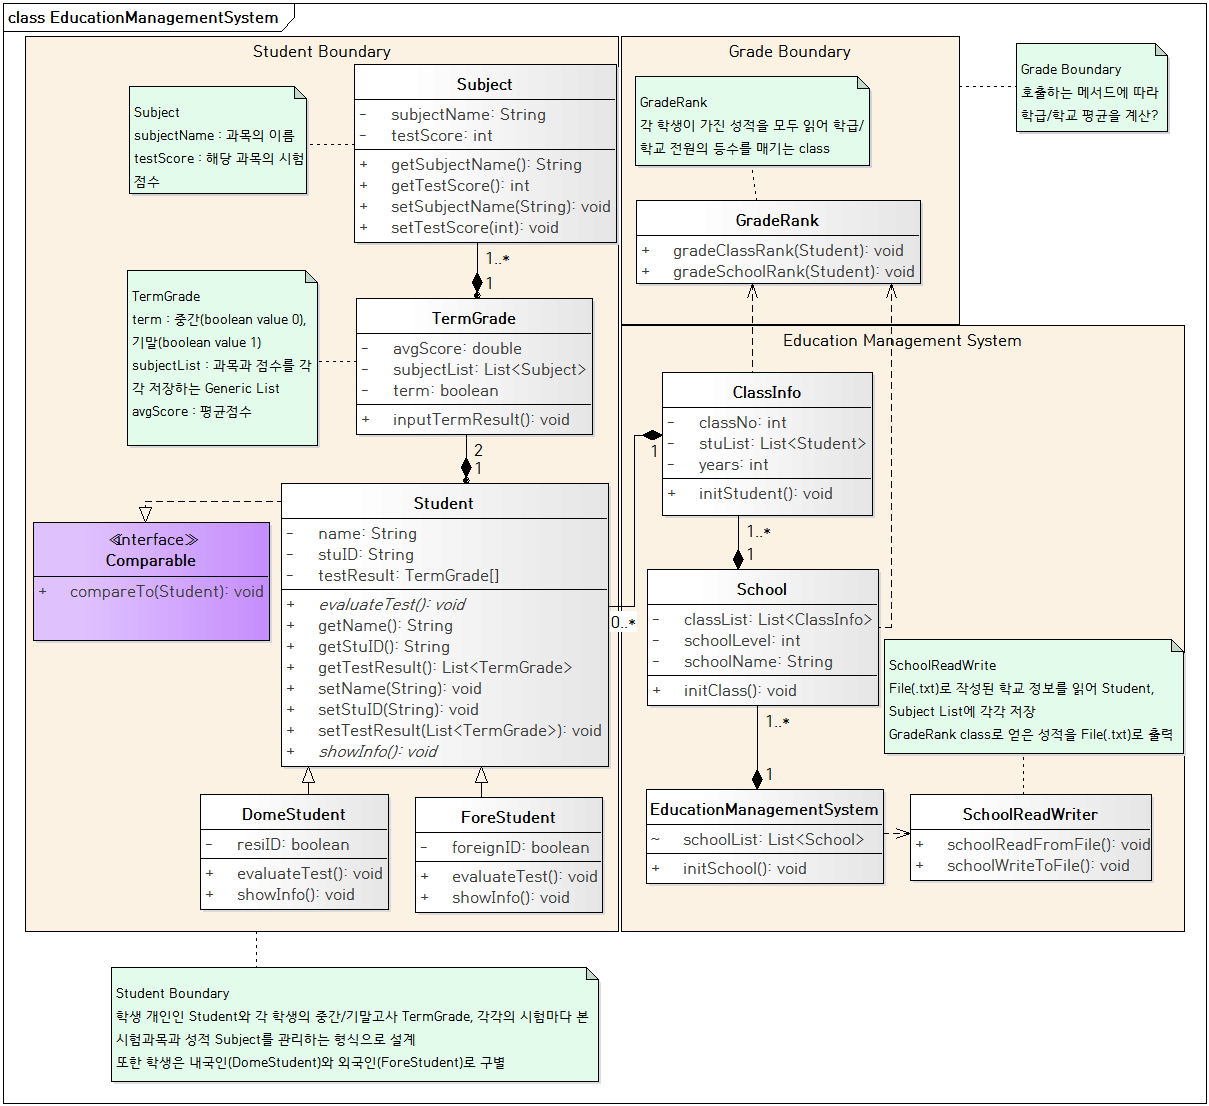
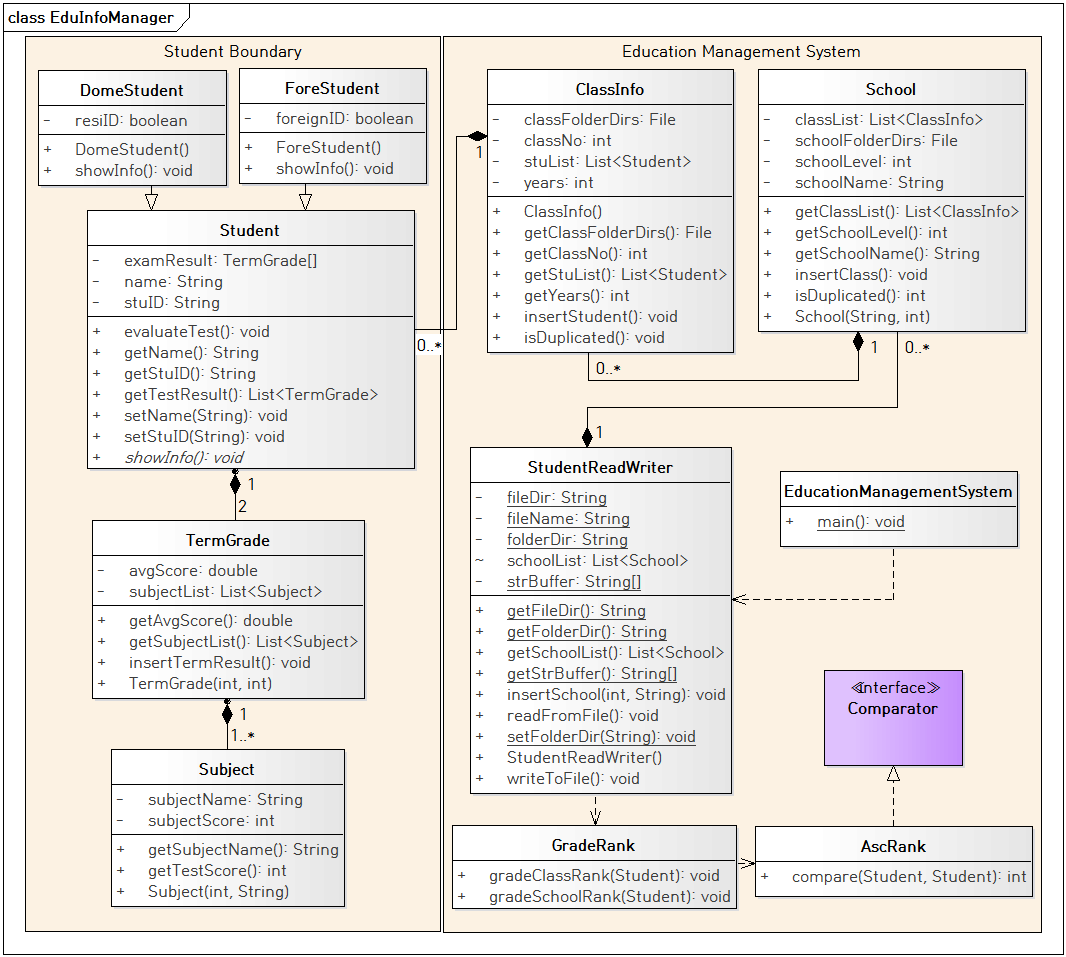
Class Diagram Remake
Sorting method merge and Refactoring(2nd)

diff --git a/DongHyeok/src/com/paran/exercise1/EduInfoManager.java b/DongHyeok/src/com/paran/exercise1/EduInfoManager.java
@@ -7,23 +7,25 @@ import java.io.FileReader;
 import java.io.FileWriter;
 import java.io.IOException;
 import java.util.ArrayList;
+import java.util.Collections;
+import java.util.Comparator;
 import java.util.List;
 
 public class EduInfoManager {
 	public static void main(String[] args) throws IOException {
-		SchoolReadWriter eduInfo = new SchoolReadWriter();
+		StudentReadWriter eduInfo = new StudentReadWriter();
 		eduInfo.writeToFile();
 	}
 }
 
-class SchoolReadWriter {
+class StudentReadWriter {
 	List<School> schoolList = new ArrayList<School>();
 	private static String fileDir = "D:\\EMS\\";
 	private static String fileName = "SchoolCollection.txt";
 	private static String[] strBuffer;
 	private static String folderDir;
 	
-	public SchoolReadWriter() throws IOException {
+	public StudentReadWriter() throws IOException {
 		readFromFile();
 	}
 
@@ -36,16 +38,16 @@ class SchoolReadWriter {
 			strBuffer = fileLine.split("\t");
 			switch (Integer.parseInt(strBuffer[0])) {
 				case 1: 
-					initSchool(1, strBuffer[1]);
+					insertSchool(1, strBuffer[1]);
 					break;
 				case 2:
-					initSchool(2, strBuffer[1]);
+					insertSchool(2, strBuffer[1]);
 					break;
 				case 3:
-					initSchool(3, strBuffer[1]);
+					insertSchool(3, strBuffer[1]);
 					break;
 				case 4:
-					initSchool(4, strBuffer[1]);
+					insertSchool(4, strBuffer[1]);
 					break;
 				default:
 					break;
@@ -60,6 +62,7 @@ class SchoolReadWriter {
 		String outputString;
 		for (int i = 0 ; i < schoolList.size(); i++) {
 			for (int j = 0 ; j < schoolList.get(i).getClassList().size(); j++) {
+				GradeRank.gradeClassRank(schoolList.get(i).getClassList().get(j));
 				outputFile = new BufferedWriter
 						(new FileWriter(schoolList.get(i).getClassList().get(j).getClassFolderDirs().getPath() + "\\ClassInfo.txt"));
 				outputString = "";
@@ -73,7 +76,7 @@ class SchoolReadWriter {
 		
 	}
 	
-	public void initSchool(int schoolLevel, String schoolName) {
+	public void insertSchool(int schoolLevel, String schoolName) {
 		boolean schoolExist = false;
 		int duplicatedPosition = 0;
 		
@@ -95,16 +98,12 @@ class SchoolReadWriter {
 			schoolList.add(new School(schoolLevel, schoolName));
 		}
 		else {
-			schoolList.get(duplicatedPosition).duplicatedSchool();
+			schoolList.get(duplicatedPosition).isDuplicated();
 		}
 	}
 	
 	public static String getFileDir() {
 		return fileDir;
-	}
-	
-	public static String getFileName() {
-		return fileName;
 	}
 
 	public static String[] getStrBuffer() {
@@ -116,7 +115,7 @@ class SchoolReadWriter {
 	}
 	
 	public static void setFolderDir(String folderDir) {
-		SchoolReadWriter.folderDir = folderDir;
+		StudentReadWriter.folderDir = folderDir;
 	}
 
 	public List<School> getSchoolList() {
@@ -135,34 +134,34 @@ class School {
 		this.schoolLevel = schoolLevel;
 		this.schoolName = schoolName;
 		
-		SchoolReadWriter.setFolderDir(SchoolReadWriter.getFileDir());
+		StudentReadWriter.setFolderDir(StudentReadWriter.getFileDir());
 		switch (schoolLevel) {
 			case 1:
-				SchoolReadWriter.setFolderDir(SchoolReadWriter.getFolderDir() + "Elementary");
+				StudentReadWriter.setFolderDir(StudentReadWriter.getFolderDir() + "Elementary");
 				break;
 			case 2:
-				SchoolReadWriter.setFolderDir(SchoolReadWriter.getFolderDir() + "Middle");
+				StudentReadWriter.setFolderDir(StudentReadWriter.getFolderDir() + "Middle");
 				break;
 			case 3:
-				SchoolReadWriter.setFolderDir(SchoolReadWriter.getFolderDir() + "High");
+				StudentReadWriter.setFolderDir(StudentReadWriter.getFolderDir() + "High");
 				break;
 			case 4:
-				SchoolReadWriter.setFolderDir(SchoolReadWriter.getFolderDir() + "University");
+				StudentReadWriter.setFolderDir(StudentReadWriter.getFolderDir() + "University");
 				break;
 			default:
 				break;
 		}
-		SchoolReadWriter.setFolderDir(SchoolReadWriter.getFolderDir() + "\\" + schoolName);
-		schoolFolderDirs = new File(SchoolReadWriter.getFolderDir());
+		StudentReadWriter.setFolderDir(StudentReadWriter.getFolderDir() + "\\" + schoolName);
+		schoolFolderDirs = new File(StudentReadWriter.getFolderDir());
 		if (!schoolFolderDirs.exists()) schoolFolderDirs.mkdirs();
 		
-		initClass();
+		insertClass();
 	}
-	public void duplicatedSchool() {
-		initClass();
+	public void isDuplicated() {
+		insertClass();
 	}
 	
-	public void initClass() {
+	public void insertClass() {
 		boolean classExist = false;
 		int duplicatedPosition = 0;
 		
@@ -171,8 +170,8 @@ class School {
 			return;
 		}
 		for (int i = 0 ; i < classList.size(); i++) {
-			if (!(classList.get(i).getYears() == Integer.parseInt(SchoolReadWriter.getStrBuffer()[2]))
-					&& !(classList.get(i).getClassNo() == Integer.parseInt(SchoolReadWriter.getStrBuffer()[3]))) {
+			if (!(classList.get(i).getYears() == Integer.parseInt(StudentReadWriter.getStrBuffer()[2]))
+					&& !(classList.get(i).getClassNo() == Integer.parseInt(StudentReadWriter.getStrBuffer()[3]))) {
 				classExist = false;
 			}
 			else {
@@ -185,7 +184,7 @@ class School {
 			classList.add(new ClassInfo());
 		}
 		else {
-			classList.get(duplicatedPosition).duplicatedClass();
+			classList.get(duplicatedPosition).isDuplicated();
 		}
 	}
 
@@ -210,21 +209,21 @@ class ClassInfo {
 	private File classFolderDirs;
 	
 	public ClassInfo() {
-		this.years = Integer.parseInt(SchoolReadWriter.getStrBuffer()[2]);
-		this.classNo = Integer.parseInt(SchoolReadWriter.getStrBuffer()[3]);
+		this.years = Integer.parseInt(StudentReadWriter.getStrBuffer()[2]);
+		this.classNo = Integer.parseInt(StudentReadWriter.getStrBuffer()[3]);
 		
-		classFolderDirs = new File(SchoolReadWriter.getFolderDir() + "\\" + years + "\\" + classNo);
+		classFolderDirs = new File(StudentReadWriter.getFolderDir() + "\\" + years + "\\" + classNo);
 		if (!classFolderDirs.exists()) classFolderDirs.mkdirs();
 		
-		initStudent();
+		insertStudent();
 	}
 
-	public void duplicatedClass(){
-		initStudent();
+	public void isDuplicated(){
+		insertStudent();
 	}
 	
-	public void initStudent() {
-		if (Integer.parseInt(SchoolReadWriter.getStrBuffer()[6]) == 0) {
+	public void insertStudent() {
+		if (Integer.parseInt(StudentReadWriter.getStrBuffer()[6]) == 0) {
 			stuList.add(new DomeStudent());
 		}
 		else {
@@ -250,36 +249,25 @@ class ClassInfo {
 	
 }
 
-abstract class Student implements Comparable<Student>{
+abstract class Student{
 	private String name;
 	private String stuID;
 	private List<TermGrade> examResult = new ArrayList<TermGrade>();
 	
 	public abstract String showInfo();
-	public void evaluateTest() {
+	public void evaluateGrade() {
 		int midStart = 0;
 		int finalStart = 0; 
-		for (int i = 8 ; i < SchoolReadWriter.getStrBuffer().length ; i++) {
-			if (SchoolReadWriter.getStrBuffer()[i].equalsIgnoreCase("Mid")) {
+		for (int i = 8 ; i < StudentReadWriter.getStrBuffer().length ; i++) {
+			if (StudentReadWriter.getStrBuffer()[i].equalsIgnoreCase("Mid")) {
 				midStart = i;
 			}
-			else if (SchoolReadWriter.getStrBuffer()[i].equalsIgnoreCase("Final")) {
+			else if (StudentReadWriter.getStrBuffer()[i].equalsIgnoreCase("Final")) {
 				finalStart = i;
 			}
 		}
 		examResult.add(new TermGrade(midStart, finalStart));
-		examResult.add(new TermGrade(finalStart, SchoolReadWriter.getStrBuffer().length));
-	}
-	@Override
-	public int compareTo(Student stu) {
-		// TODO Auto-generated method stub
-		if (this.getTestResult().get(0).getAvgScore() > stu.getTestResult().get(0).getAvgScore()) {
-			return -1;
-		}
-		else if (this.getTestResult().get(0).getAvgScore() == stu.getTestResult().get(0).getAvgScore()) {
-			return 0;
-		}
-		else return 1;
+		examResult.add(new TermGrade(finalStart, StudentReadWriter.getStrBuffer().length));
 	}
 	
 	public String getName() {
@@ -298,11 +286,8 @@ abstract class Student implements Comparable<Student>{
 		this.stuID = stuID;
 	}
 	
-	public List<TermGrade> getTestResult() {
+	public List<TermGrade> getTermResult() {
 		return examResult;
-	}
-	public void setTestResult(List<TermGrade> examResult) {
-		this.examResult = examResult;
 	}
 }
 
@@ -311,11 +296,11 @@ class DomeStudent extends Student {
 	private String resiID;
 	
 	public DomeStudent() {
-		super.setName(SchoolReadWriter.getStrBuffer()[4]);
-		super.setStuID(SchoolReadWriter.getStrBuffer()[5]);
-		this.resiID = SchoolReadWriter.getStrBuffer()[7];
+		super.setName(StudentReadWriter.getStrBuffer()[4]);
+		super.setStuID(StudentReadWriter.getStrBuffer()[5]);
+		this.resiID = StudentReadWriter.getStrBuffer()[7];
 		
-		evaluateTest();
+		evaluateGrade();
 	}
 	
 	@Override
@@ -324,17 +309,17 @@ class DomeStudent extends Student {
 		String studentInfo = "Name : " + getName() + "\tStu ID : " + getStuID() +
 				"\tResidence ID : " + resiID + "\r\n";
 		studentInfo += "Mid Term : \t";
-		for (int i = 0 ; i < super.getTestResult().get(0).getSubjectList().size(); i++) {
-			studentInfo += super.getTestResult().get(0).getSubjectList().get(i).getSubjectName()
-					+ " " + super.getTestResult().get(0).getSubjectList().get(i).getTestScore() + " ";
+		for (int i = 0 ; i < super.getTermResult().get(0).getSubjectList().size(); i++) {
+			studentInfo += super.getTermResult().get(0).getSubjectList().get(i).getSubjectName()
+					+ " " + super.getTermResult().get(0).getSubjectList().get(i).getSujectScore() + " ";
 		}
-		studentInfo += "\tAverage Score : " + super.getTestResult().get(0).getAvgScore()
+		studentInfo += "\tAverage Score : " + super.getTermResult().get(0).getAvgScore()
 				+ "\r\nFinal Term : \t";
-		for (int i = 0 ; i < super.getTestResult().get(1).getSubjectList().size(); i++) {
-			studentInfo += super.getTestResult().get(1).getSubjectList().get(i).getSubjectName()
-					+ " " + super.getTestResult().get(1).getSubjectList().get(i).getTestScore() + " ";
+		for (int i = 0 ; i < super.getTermResult().get(1).getSubjectList().size(); i++) {
+			studentInfo += super.getTermResult().get(1).getSubjectList().get(i).getSubjectName()
+					+ " " + super.getTermResult().get(1).getSubjectList().get(i).getSujectScore() + " ";
 		}
-		studentInfo += "\tAverage Score : " + super.getTestResult().get(1).getAvgScore() + "\r\n";
+		studentInfo += "\tAverage Score : " + super.getTermResult().get(1).getAvgScore() + "\r\n";
 		return studentInfo;
 	}	
 }
@@ -343,11 +328,11 @@ class ForeStudent extends Student {
 	private String foreignID;
 	
 	public ForeStudent() {
-		super.setName(SchoolReadWriter.getStrBuffer()[4]);
-		super.setStuID(SchoolReadWriter.getStrBuffer()[5]);
-		this.foreignID = SchoolReadWriter.getStrBuffer()[7];
+		super.setName(StudentReadWriter.getStrBuffer()[4]);
+		super.setStuID(StudentReadWriter.getStrBuffer()[5]);
+		this.foreignID = StudentReadWriter.getStrBuffer()[7];
 		
-		evaluateTest();
+		evaluateGrade();
 	}
 	
 	@Override
@@ -356,17 +341,17 @@ class ForeStudent extends Student {
 		String studentInfo = "Name : " + getName() + "\tStu ID : " + getStuID() +
 				"\tForeign ID : " + foreignID + "\r\n";
 		studentInfo += "Mid Term : \t";
-		for (int i = 0 ; i < super.getTestResult().get(0).getSubjectList().size(); i++) {
-			studentInfo += super.getTestResult().get(0).getSubjectList().get(i).getSubjectName()
-					+ " " + super.getTestResult().get(0).getSubjectList().get(i).getTestScore() + " ";
+		for (int i = 0 ; i < super.getTermResult().get(0).getSubjectList().size(); i++) {
+			studentInfo += super.getTermResult().get(0).getSubjectList().get(i).getSubjectName()
+					+ " " + super.getTermResult().get(0).getSubjectList().get(i).getSujectScore() + " ";
 		}
-		studentInfo += "\tAverage Score : " + super.getTestResult().get(0).getAvgScore()
+		studentInfo += "\tAverage Score : " + super.getTermResult().get(0).getAvgScore()
 				+ "\r\nFinal Term : \t";
-		for (int i = 0 ; i < super.getTestResult().get(1).getSubjectList().size(); i++) {
-			studentInfo += super.getTestResult().get(1).getSubjectList().get(i).getSubjectName()
-					+ " " + super.getTestResult().get(1).getSubjectList().get(i).getTestScore() + " ";
+		for (int i = 0 ; i < super.getTermResult().get(1).getSubjectList().size(); i++) {
+			studentInfo += super.getTermResult().get(1).getSubjectList().get(i).getSubjectName()
+					+ " " + super.getTermResult().get(1).getSubjectList().get(i).getSujectScore() + " ";
 		}
-		studentInfo += "\tAverage Score : " + super.getTestResult().get(1).getAvgScore() + "\r\n";
+		studentInfo += "\tAverage Score : " + super.getTermResult().get(1).getAvgScore() + "\r\n";
 		return studentInfo;
 	}	
 }
@@ -376,18 +361,18 @@ class TermGrade {
 	private List<Subject> subjectList = new ArrayList<Subject>();
 	
 	public TermGrade(int frontPoint, int endPoint) {
-		inputTermResult(frontPoint, endPoint);
+		insertTermResult(frontPoint, endPoint);
 		
 		for (Subject subj : subjectList) {
-			avgScore += subj.getTestScore();
+			avgScore += subj.getSujectScore();
 		}
 		
 		avgScore /= subjectList.size();
 	}
 	
-	public void inputTermResult(int frontPoint, int endPoint) {
+	public void insertTermResult(int frontPoint, int endPoint) {
 		for (int i = frontPoint + 1 ; i < endPoint ; i += 2) {
-			subjectList.add(new Subject(SchoolReadWriter.getStrBuffer()[i], Integer.parseInt(SchoolReadWriter.getStrBuffer()[i+1])));
+			subjectList.add(new Subject(StudentReadWriter.getStrBuffer()[i], Integer.parseInt(StudentReadWriter.getStrBuffer()[i+1])));
 		}
 	}
 
@@ -403,25 +388,38 @@ class TermGrade {
 
 class Subject {
 	private String subjectName;
-	private int testScore;
+	private int subjectScore;
 	
-	public Subject(String subjectName, int testScore) {
+	public Subject(String subjectName, int subjectScore) {
 		this.subjectName = subjectName;
-		this.testScore = testScore;
+		this.subjectScore = subjectScore;
 	}
 	public String getSubjectName() {
 		return subjectName;
 	}
-	public int getTestScore() {
-		return testScore;
+	public int getSujectScore() {
+		return subjectScore;
 	}
 }
 
 class GradeRank {
-	void gradeClassRank(List<Student> stuList) {
-
+	static void gradeClassRank(ClassInfo infoStudent) {
+		Collections.sort(infoStudent.getStuList(), new AscRank());
 	}
 	void gradeSchoolRank(Student stu) {
 		
 	}
+}
+
+class AscRank implements Comparator<Student> {
+	@Override
+	public int compare(Student stu1, Student stu2) {
+		if(stu1.getTermResult().get(0).getAvgScore() > stu2.getTermResult().get(0).getAvgScore())
+			return -1;
+		else if(stu1.getTermResult().get(0).getAvgScore() < stu2.getTermResult().get(0).getAvgScore())
+			return -1;
+		else
+			return 0;
+	}
+	
 }
